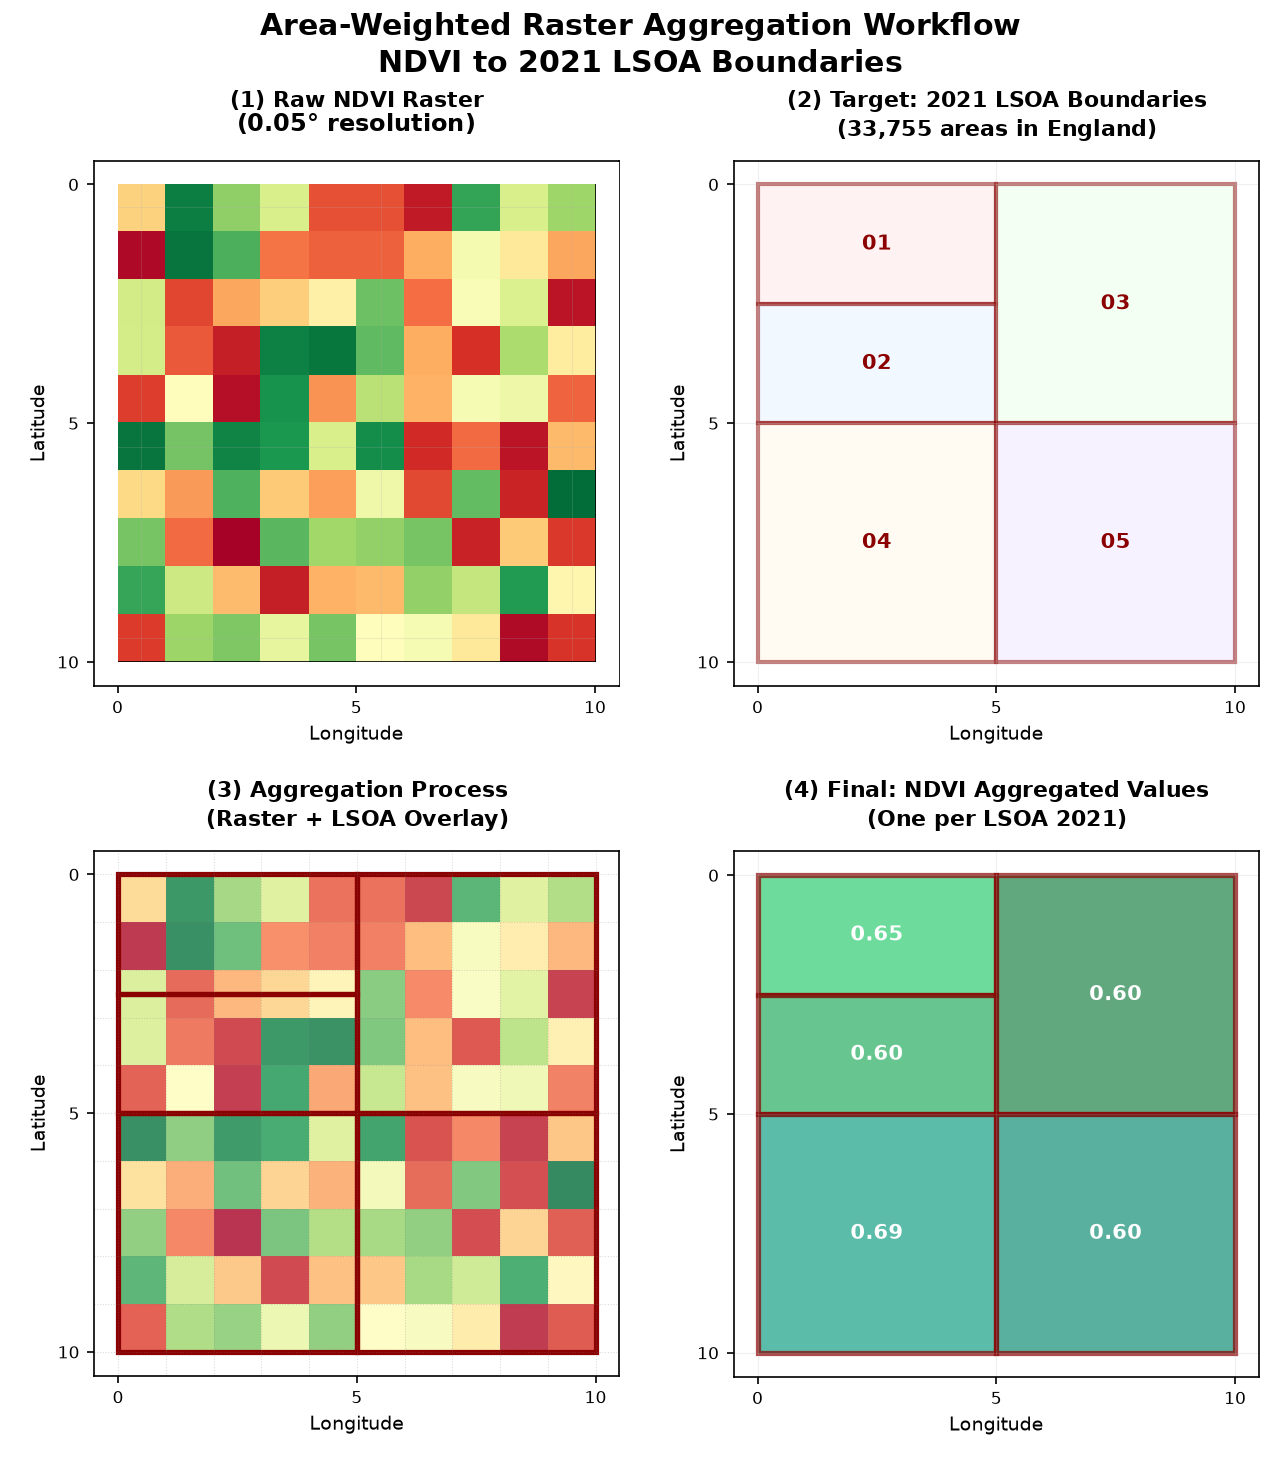
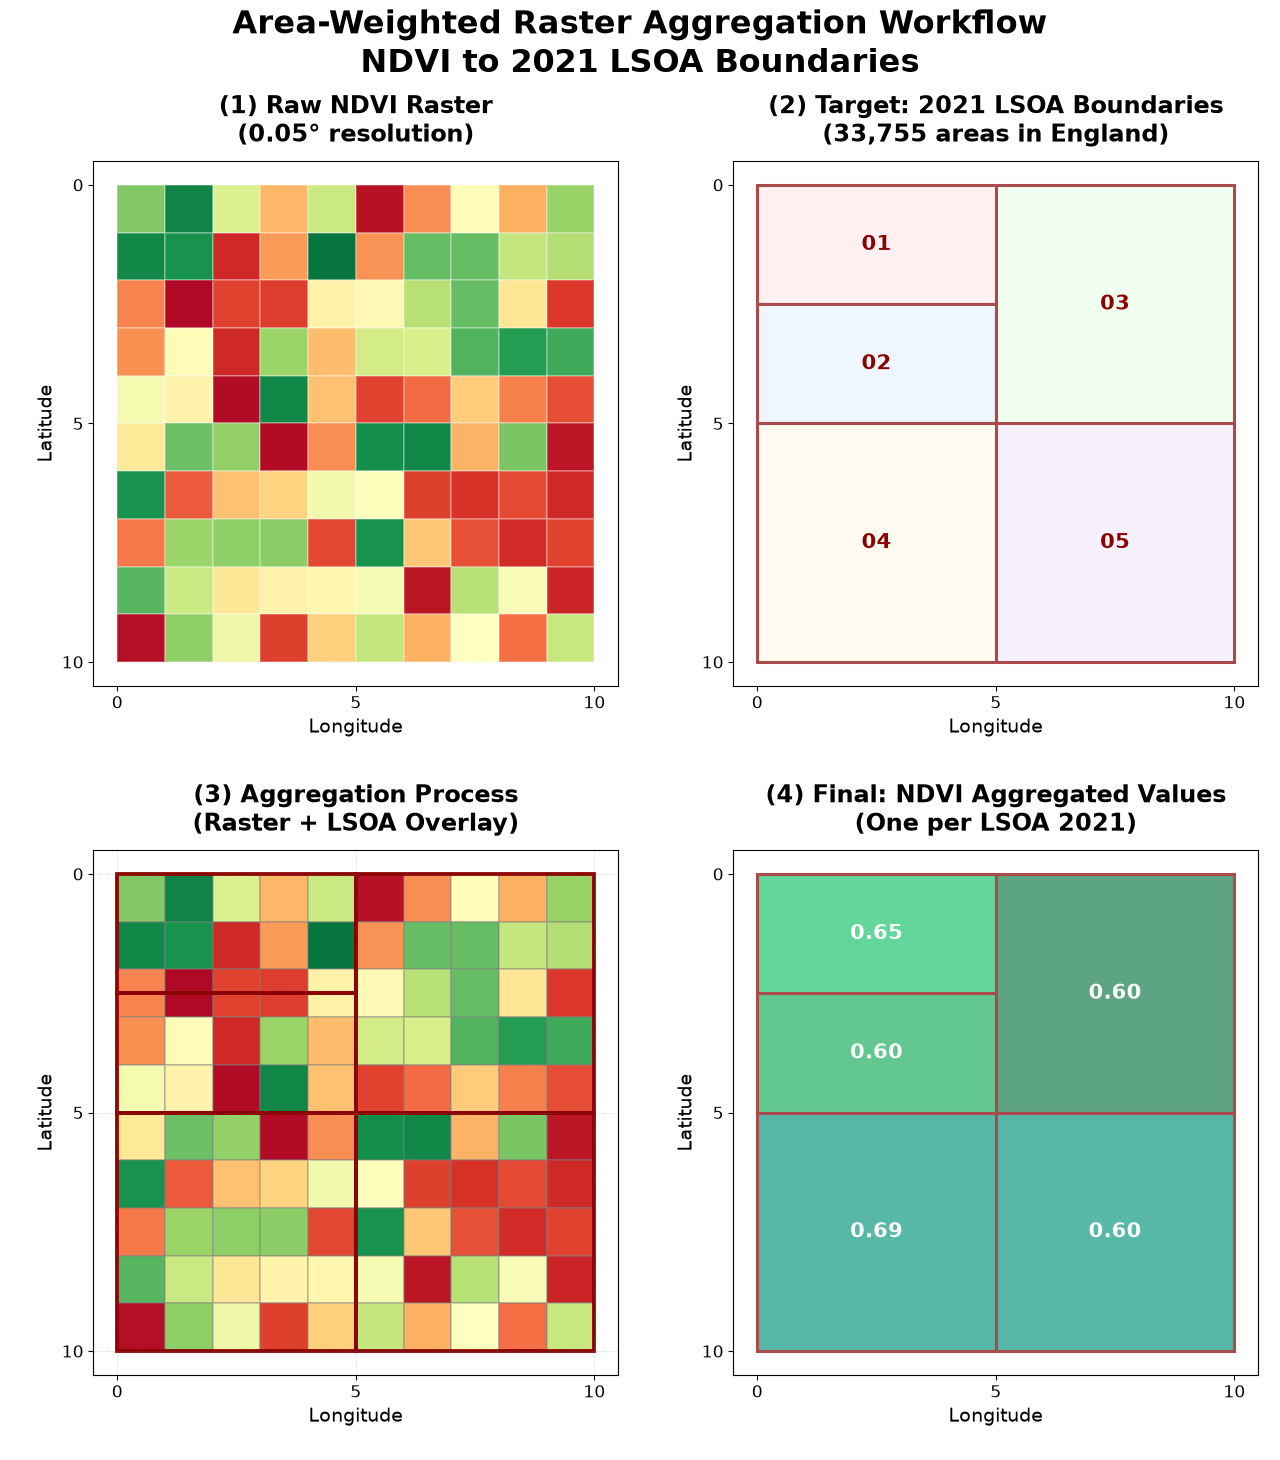
Update README to clarify NDVI map generation and add lsoa_aggregation_workflow.py script

diff --git a/figure/lsoa_aggregation_workflow.py b/figure/lsoa_aggregation_workflow.py
@@ -1,0 +1,153 @@
+"""Generate the illustrative NDVI-to-LSOA aggregation workflow figure.
+
+The raster values are synthetic and are used only to illustrate the diagram;
+this script does not process source NDVI data.
+"""
+
+from pathlib import Path
+
+import matplotlib.pyplot as plt
+import numpy as np
+from matplotlib.patches import Rectangle
+
+
+OUTPUT_PATH = Path(__file__).with_name("lsoa_aggregation_workflow.png")
+POLYGONS = (
+    (0, 0, 5, 2.5, "01"),
+    (0, 2.5, 5, 2.5, "02"),
+    (5, 0, 5, 5, "03"),
+    (0, 5, 5, 5, "04"),
+    (5, 5, 5, 5, "05"),
+)
+
+
+def style_axes(ax):
+    ax.set_xlim(-0.5, 10.5)
+    ax.set_ylim(10.5, -0.5)
+    ax.set_xticks((0, 5, 10))
+    ax.set_yticks((0, 5, 10))
+    ax.set_xlabel("Longitude", fontsize=14)
+    ax.set_ylabel("Latitude", fontsize=14)
+    ax.tick_params(labelsize=12)
+    ax.set_aspect("equal")
+
+
+def add_polygons(ax, facecolors, edgecolor, linewidth, show_labels=True):
+    for (x, y, width, height, label), facecolor in zip(POLYGONS, facecolors):
+        ax.add_patch(
+            Rectangle(
+                (x, y),
+                width,
+                height,
+                facecolor=facecolor,
+                edgecolor=edgecolor,
+                linewidth=linewidth,
+            )
+        )
+        if show_labels:
+            ax.text(
+                x + width / 2,
+                y + height / 2,
+                label,
+                color="darkred",
+                fontsize=15,
+                fontweight="bold",
+                ha="center",
+                va="center",
+            )
+
+
+def main():
+    rng = np.random.default_rng(2021)
+    ndvi = rng.uniform(0, 1, size=(10, 10))
+
+    fig = plt.figure(figsize=(12.8, 14.6), facecolor="white")
+    fig.suptitle(
+        "Area-Weighted Raster Aggregation Workflow\n"
+        "NDVI to 2021 LSOA Boundaries",
+        fontsize=23,
+        fontweight="bold",
+        y=0.995,
+        linespacing=1.1,
+    )
+
+    axes = (
+        fig.add_axes((0.073, 0.53, 0.41, 0.36)),
+        fig.add_axes((0.573, 0.53, 0.41, 0.36)),
+        fig.add_axes((0.073, 0.058, 0.41, 0.36)),
+        fig.add_axes((0.573, 0.058, 0.41, 0.36)),
+    )
+    titles = (
+        "(1) Raw NDVI Raster\n(0.05° resolution)",
+        "(2) Target: 2021 LSOA Boundaries\n(33,755 areas in England)",
+        "(3) Aggregation Process\n(Raster + LSOA Overlay)",
+        "(4) Final: NDVI Aggregated Values\n(One per LSOA 2021)",
+    )
+    for ax, title in zip(axes, titles):
+        ax.set_title(title, fontsize=17, fontweight="bold", pad=14)
+        style_axes(ax)
+
+    edges = np.arange(11)
+    axes[0].pcolormesh(
+        edges,
+        edges,
+        ndvi,
+        cmap="RdYlGn",
+        vmin=0,
+        vmax=1,
+        edgecolors=(1, 1, 1, 0.25),
+        linewidth=0.25,
+    )
+
+    pastel_colors = ("#fff1f1", "#f0f6ff", "#f0fff0", "#fffaf0", "#f7f0ff")
+    add_polygons(axes[1], pastel_colors, edgecolor="#a94b4b", linewidth=2.2)
+
+    axes[2].pcolormesh(
+        edges,
+        edges,
+        ndvi,
+        cmap="RdYlGn",
+        vmin=0,
+        vmax=1,
+        edgecolors=(0.5, 0.5, 0.5, 0.35),
+        linewidth=0.25,
+    )
+    overlay_colors = ("none",) * len(POLYGONS)
+    add_polygons(
+        axes[2],
+        overlay_colors,
+        edgecolor="darkred",
+        linewidth=2.7,
+        show_labels=False,
+    )
+    axes[2].grid(True, linestyle=":", linewidth=0.5, color="gray", alpha=0.5)
+
+    result_colors = ("#63d69a", "#63c890", "#5da582", "#58b8a8", "#58b8a8")
+    add_polygons(
+        axes[3],
+        result_colors,
+        edgecolor="#a94b4b",
+        linewidth=2.2,
+        show_labels=False,
+    )
+    for (x, y, width, height, _), value in zip(
+        POLYGONS, ("0.65", "0.60", "0.60", "0.69", "0.60")
+    ):
+        axes[3].text(
+            x + width / 2,
+            y + height / 2,
+            value,
+            color="white",
+            fontsize=15,
+            fontweight="bold",
+            ha="center",
+            va="center",
+        )
+
+    fig.savefig(OUTPUT_PATH, dpi=100, facecolor="white")
+    plt.close(fig)
+    print(f"Saved {OUTPUT_PATH}")
+
+
+if __name__ == "__main__":
+    main()

diff --git a/README.md b/README.md
@@ -6,7 +6,7 @@ This project is part of the [CD3 Programme](https://www.cd3.org.uk/), which aims
 
 Several inputs are not measured on 2021 LSOA boundaries. Historical population counts are allocated using geographic area weights, and Fingertips LAD-level values are assigned to each LSOA in that LAD. These are derived or contextual values, not independently estimated small-area measurements.
 
-The NDVI maps below are retained as example figures showing normalized difference vegetation index (NDVI) aggregated to LSOA boundaries. The repository does not currently include a workflow to produce them; the Python helper joins an existing NDVI summary table to administrative polygons.
+The NDVI maps below are retained as example figures showing normalized difference vegetation index (NDVI) aggregated to LSOA boundaries. The repository does not include a data-processing workflow to produce the maps; the aggregation diagram can be regenerated with [`figure/lsoa_aggregation_workflow.py`](figure/lsoa_aggregation_workflow.py), which uses synthetic values for illustration. The Python helper joins an existing NDVI summary table to administrative polygons.
 
 ### Animated NDVI Time Series (2003–2020)
 
